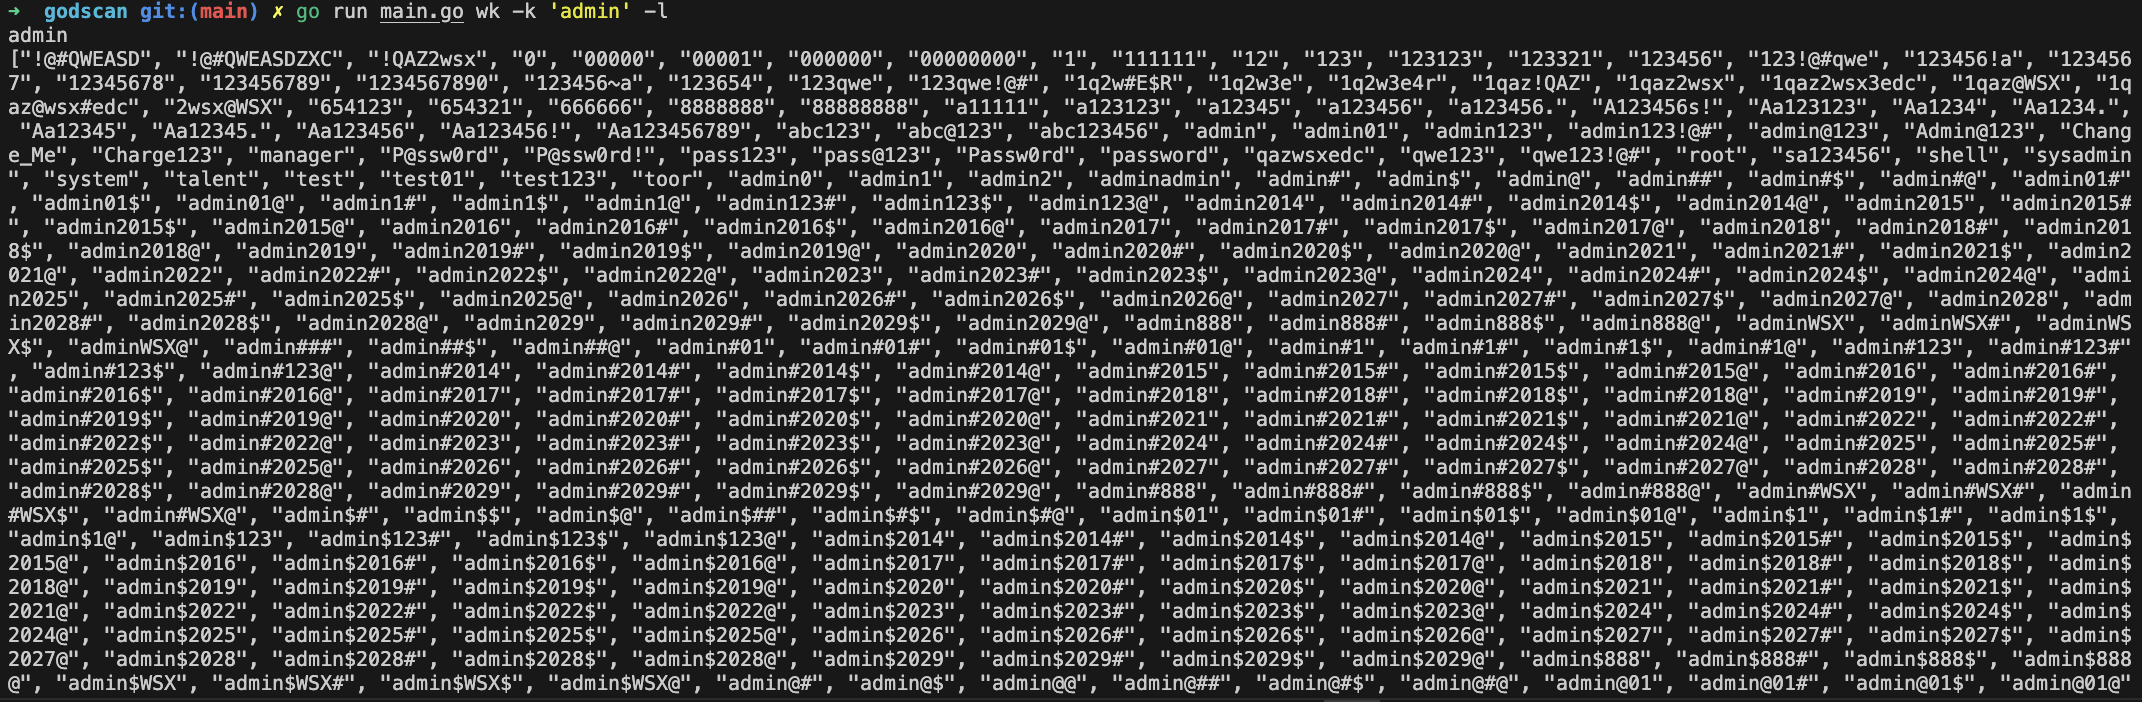
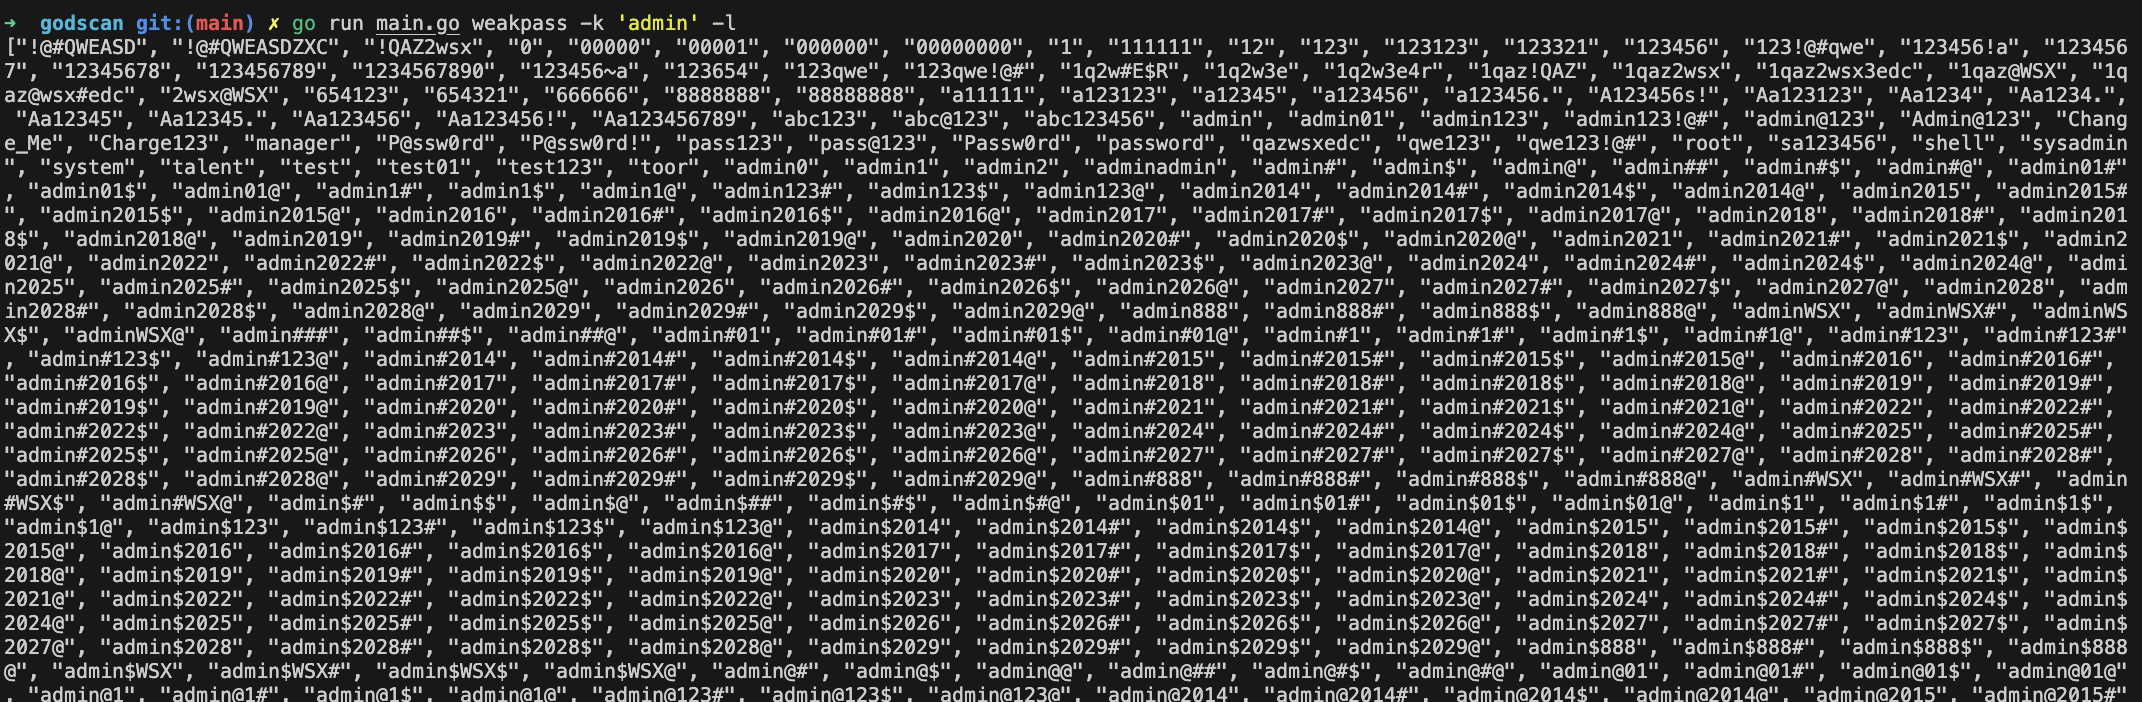
add new feature
Former-commit-id: 06792d2769b28076e022d28a055e922883a0ff14
Former-commit-id: ba8ee38e694f99d448ca55cf45d575c815dba72c

diff --git a/utils/weakpass.go b/utils/weakpass.go
@@ -154,7 +154,6 @@ func getKeywordList() []string {
 	if viper.GetBool("full") {
 		KeywordList = append(KeywordList, common.KeywordTop...)
 	}
-	fmt.Println(viper.GetString("keyword"))
 	KeywordList = append(KeywordList, strings.Split(viper.GetString("keyword"), ",")...)
 	KeywordList = removeDuplicatesString(KeywordList)
 	return KeywordList
